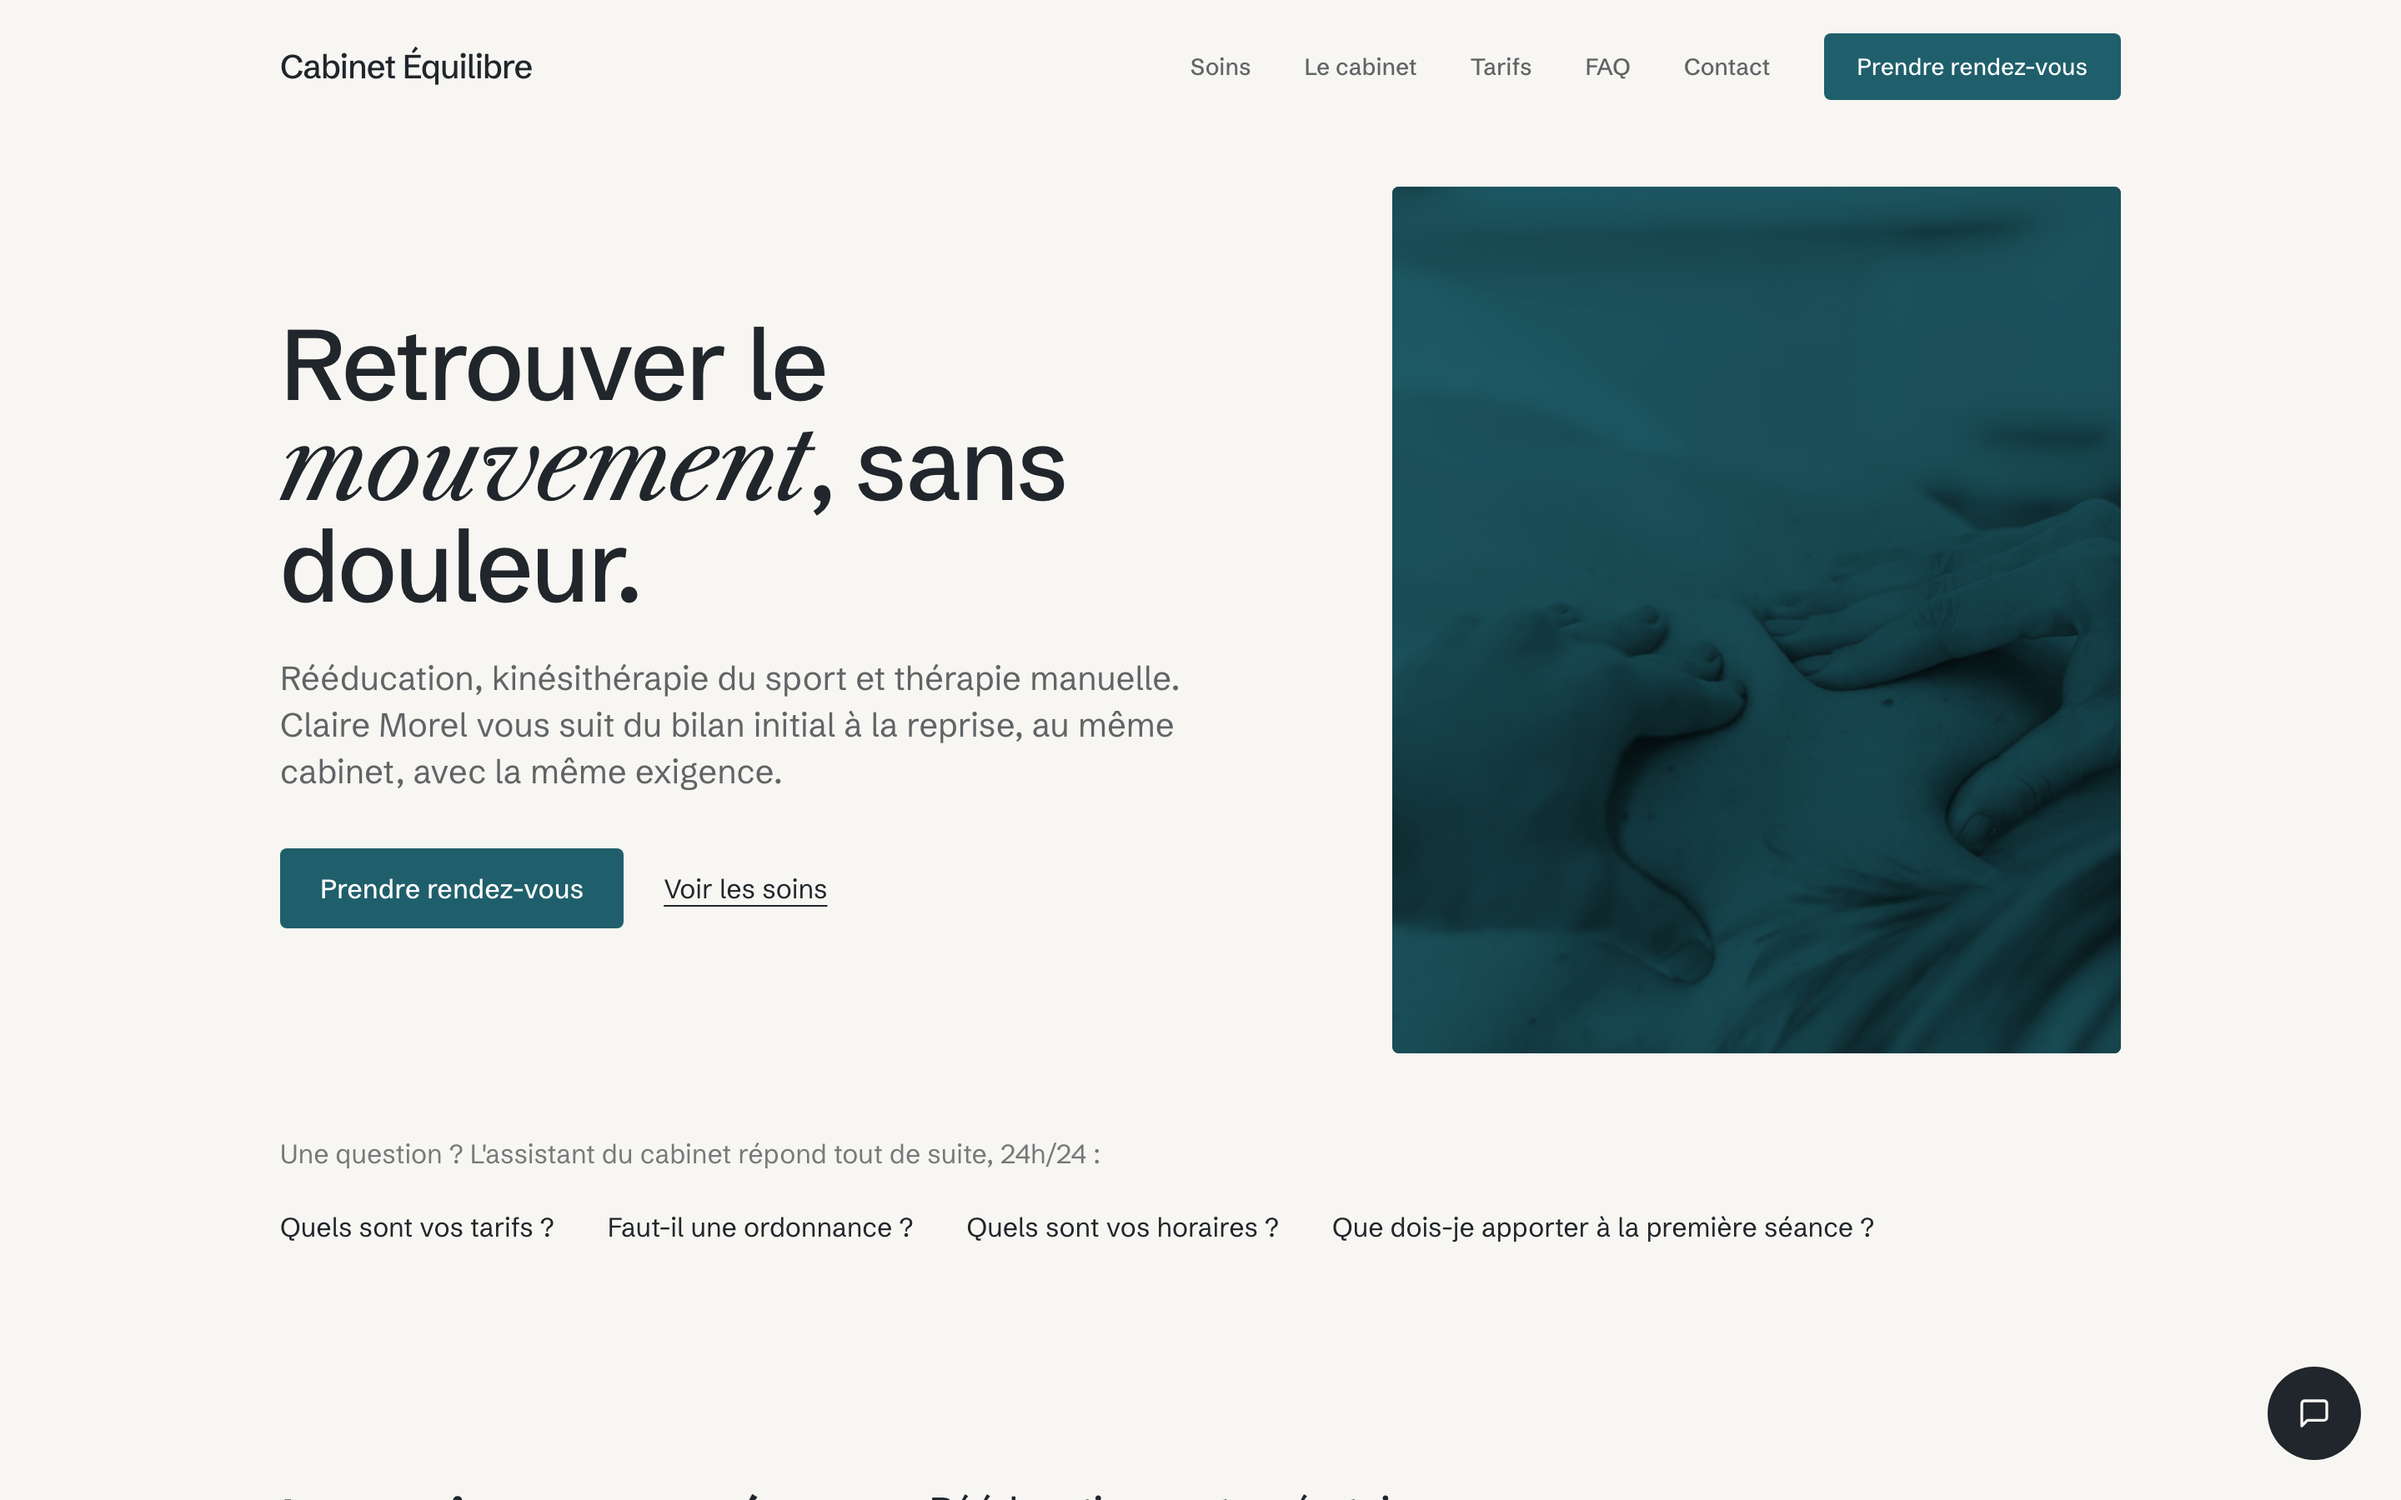
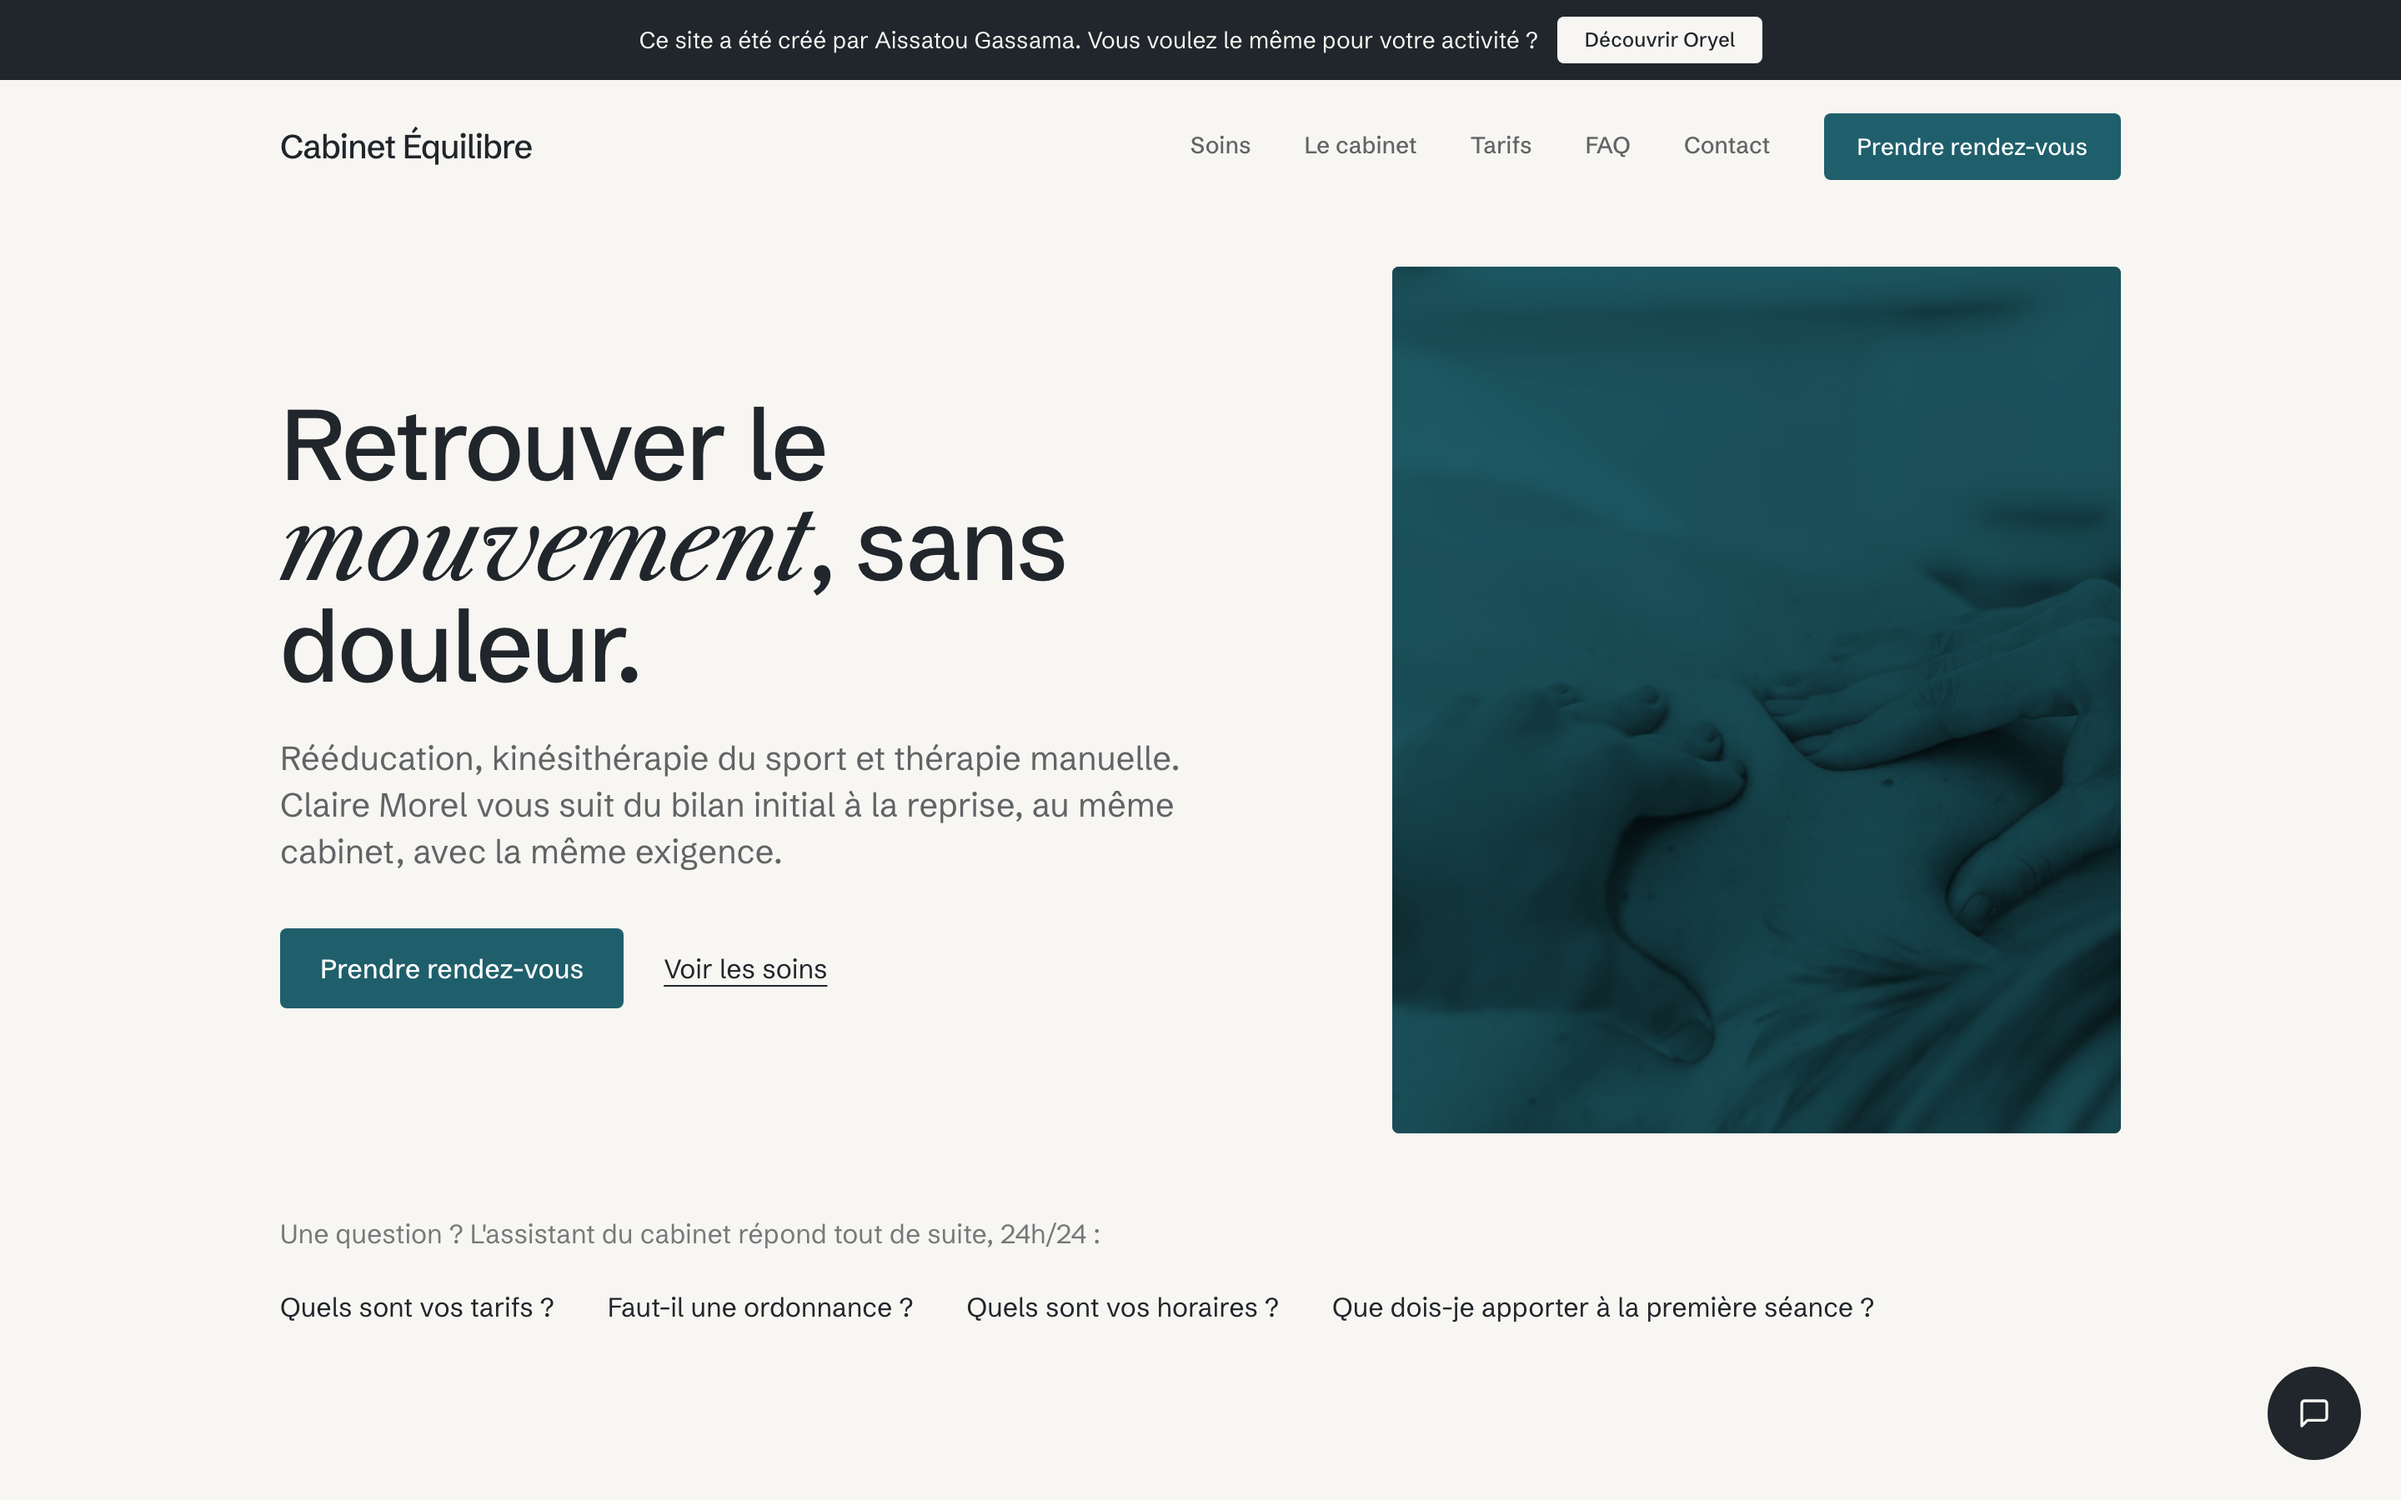
added new project to the demo section and changed alignment

diff --git a/frontend/src/components/DemosSection.jsx b/frontend/src/components/DemosSection.jsx
@@ -38,6 +38,18 @@ const clientDemos = [
     borderColor: 'border-teal-200',
     bgColor: 'bg-teal-50',
   },
+  {
+    title: 'Le clos des Mirabelles',
+    type: 'Gîte',
+    description:
+      "Site de réservation directe pour un gîte, avec assistant IA multilingue. Il répond aux questions des voyageurs avant la réservation, à toute heure, sans remplacer l'accueil du propriétaire.",
+    url: 'https://gite.oryel.dev',
+    screenshot: '/screenshots/gite.png',
+    screenshotAlt: "Page d'accueil du Clos des Mirabelles, gîte fictif",
+    accentColor: 'text-rose-600',
+    borderColor: 'border-rose-200',
+    bgColor: 'bg-rose-50',
+  },
 ];
 
 const otherProjects = [
@@ -182,7 +194,8 @@ export default function DemosSection({ onWantSameSite }) {
   const demo0Ref = useScrollAnimate(100);
   const demo1Ref = useScrollAnimate(200);
   const demo2Ref = useScrollAnimate(300);
-  const demoRefs = [demo0Ref, demo1Ref, demo2Ref];
+  const demo3Ref = useScrollAnimate(400);
+  const demoRefs = [demo0Ref, demo1Ref, demo2Ref, demo3Ref];
 
   const proj0Ref = useScrollAnimate(100);
   const proj1Ref = useScrollAnimate(200);
@@ -200,11 +213,11 @@ export default function DemosSection({ onWantSameSite }) {
             Sites vitrine avec chatbot IA
           </h2>
           <p className="text-gray-500 max-w-xl">
-            Trois sites fonctionnels, avec chatbot IA. 
+            Quatre sites fonctionnels, avec chatbot IA. 
           </p>
         </div>
 
-        <div className="grid grid-cols-1 md:grid-cols-3 gap-6 mb-6">
+        <div className="grid grid-cols-1 md:grid-cols-2 gap-6 mb-6">
           {clientDemos.map((demo, i) => (
             <ClientDemoCard key={i} demo={demo} animRef={demoRefs[i]} />
           ))}
@@ -225,7 +238,7 @@ export default function DemosSection({ onWantSameSite }) {
           <h3 className="text-xl font-bold text-gray-900 mb-2">
             Autres projets
           </h3>
-          <p className="text-gray-500 text-sm max-w-lg">
+          <p className="text-gray-500 text-sm max-w-2xl">
             En dehors des missions client, je construis des produits. Deux projets en cours avec SunuConseil.
           </p>
         </div>
